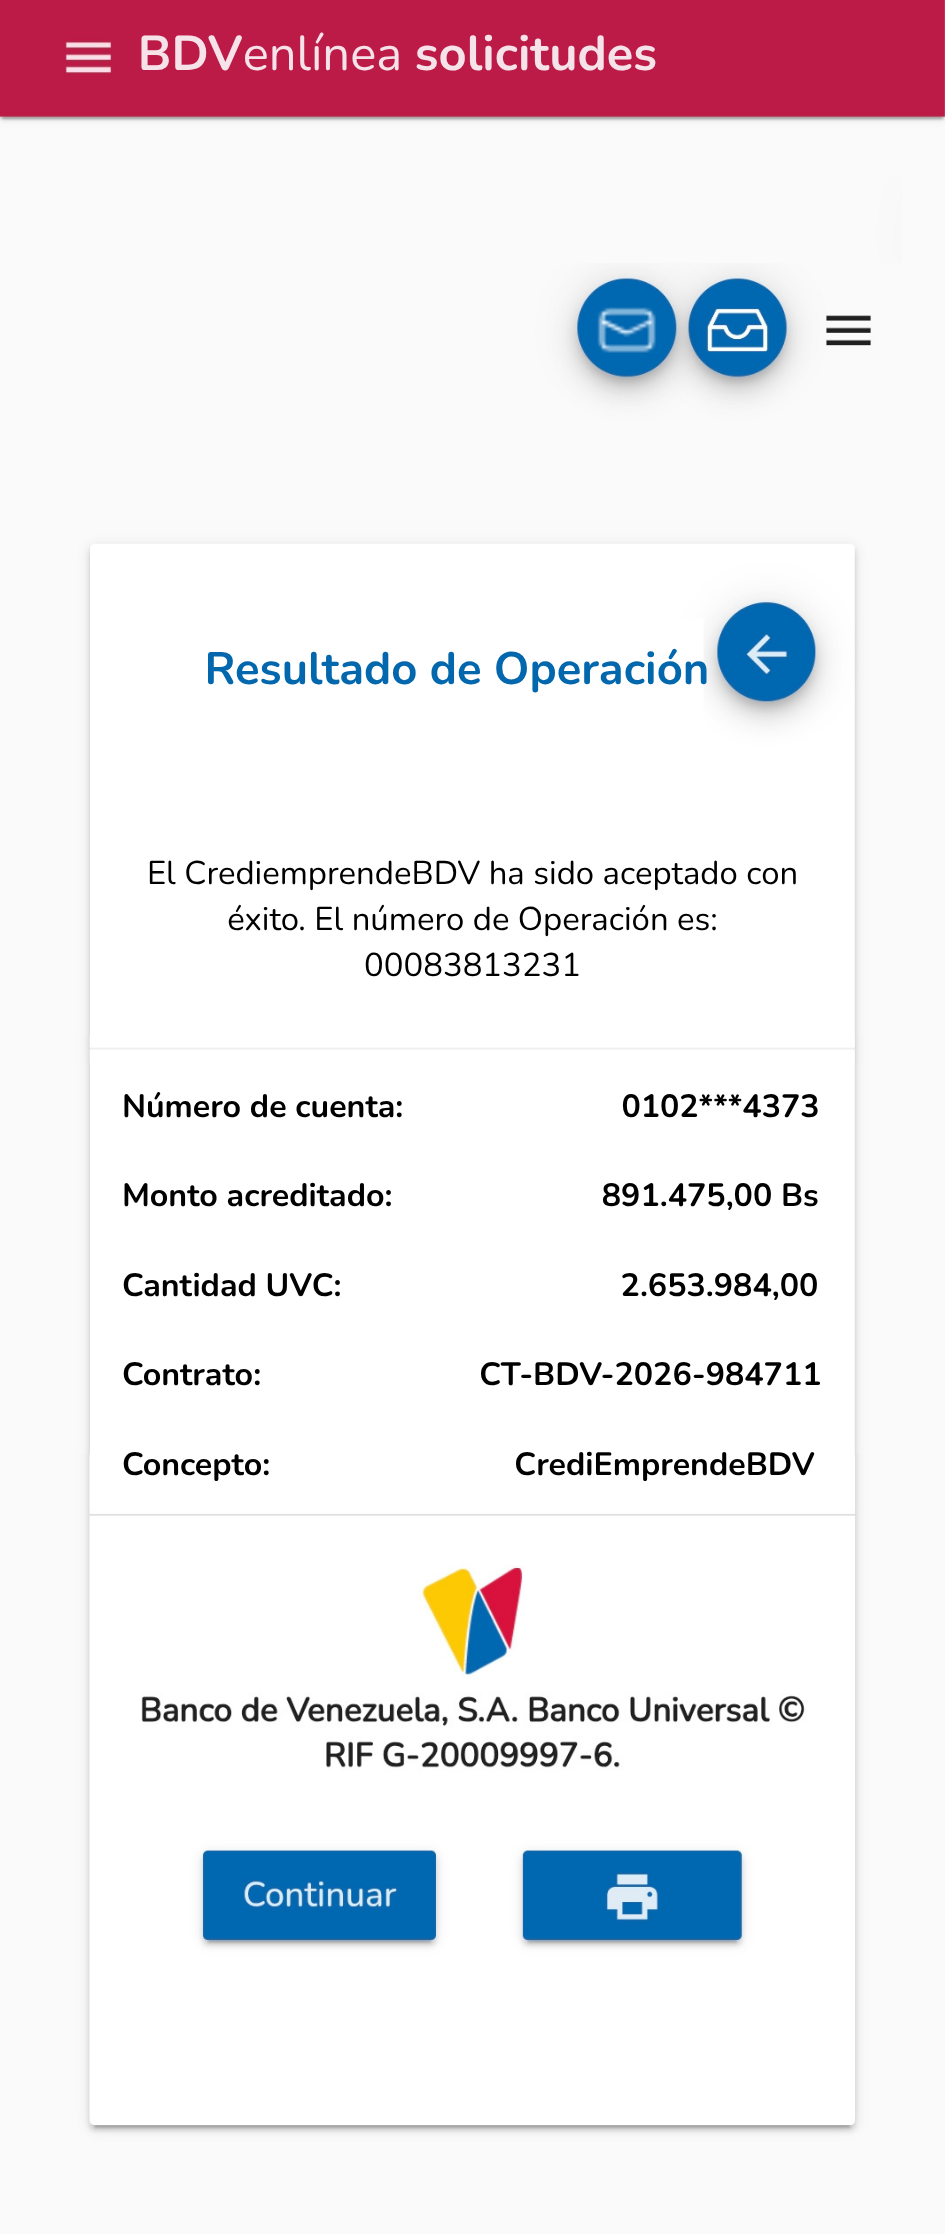
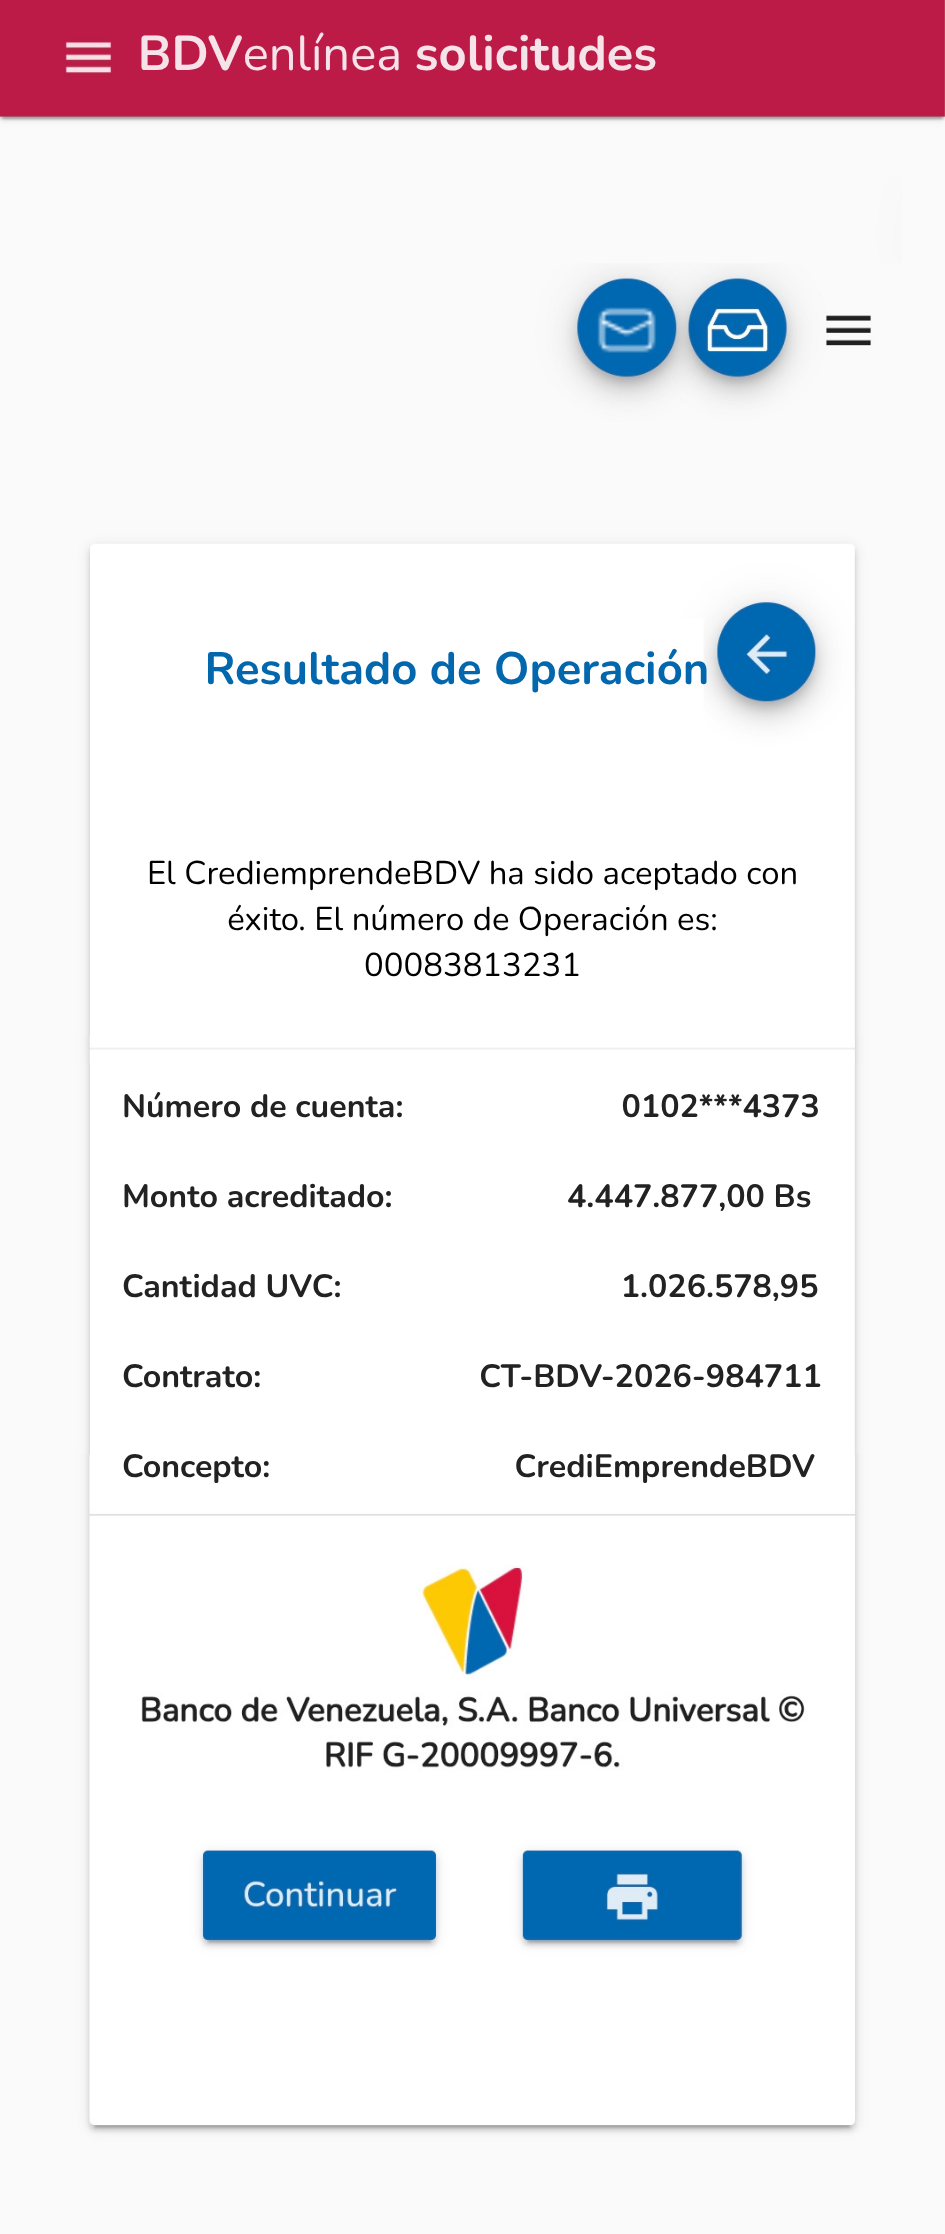
Add files via upload

diff --git a/public/style.css b/public/style.css
@@ -1714,7 +1714,7 @@ body {
 #resultado2 .resultado2-ultima-conexion {
     position: absolute;
 
-    top: 7.2%;
+    top: 8%;
     left: 3.8%;
     width: 92.4%;
 
